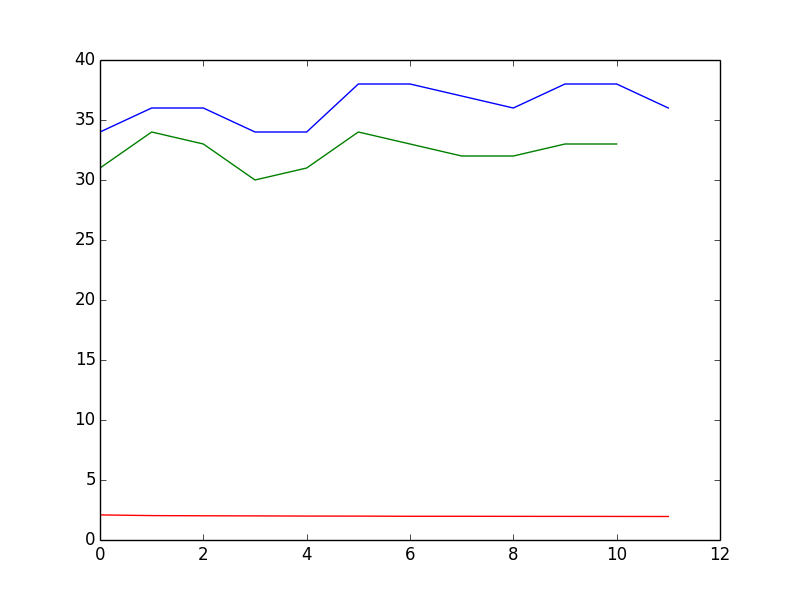
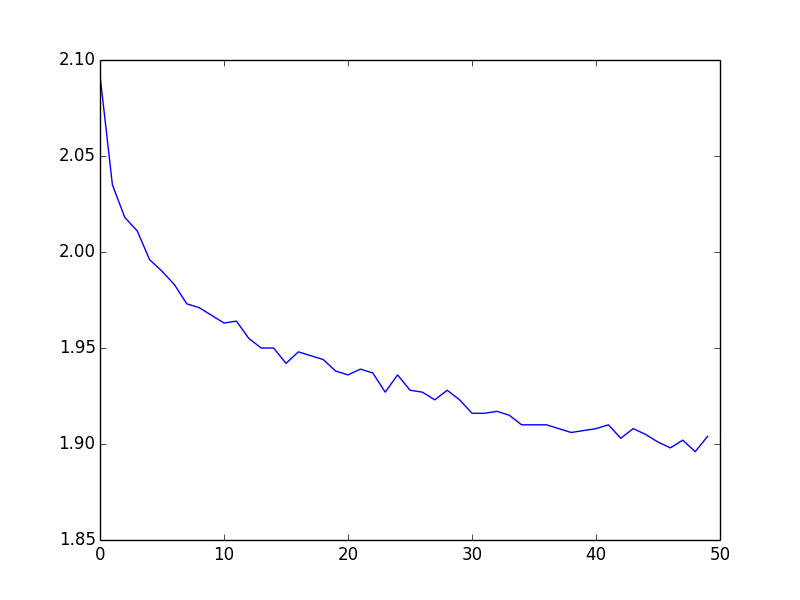
added test batch report files

diff --git a/plot_progress.py b/plot_progress.py
@@ -33,6 +33,7 @@ def main():
 	plt.plot(train_accuracy)
 	plt.plot(test_accuracy)
 	plt.savefig(args.output + "/train_test.png")
+	plt.clf()
 	plt.plot(train_loss)
 	plt.savefig(args.output + "/train_loss.png")
 
